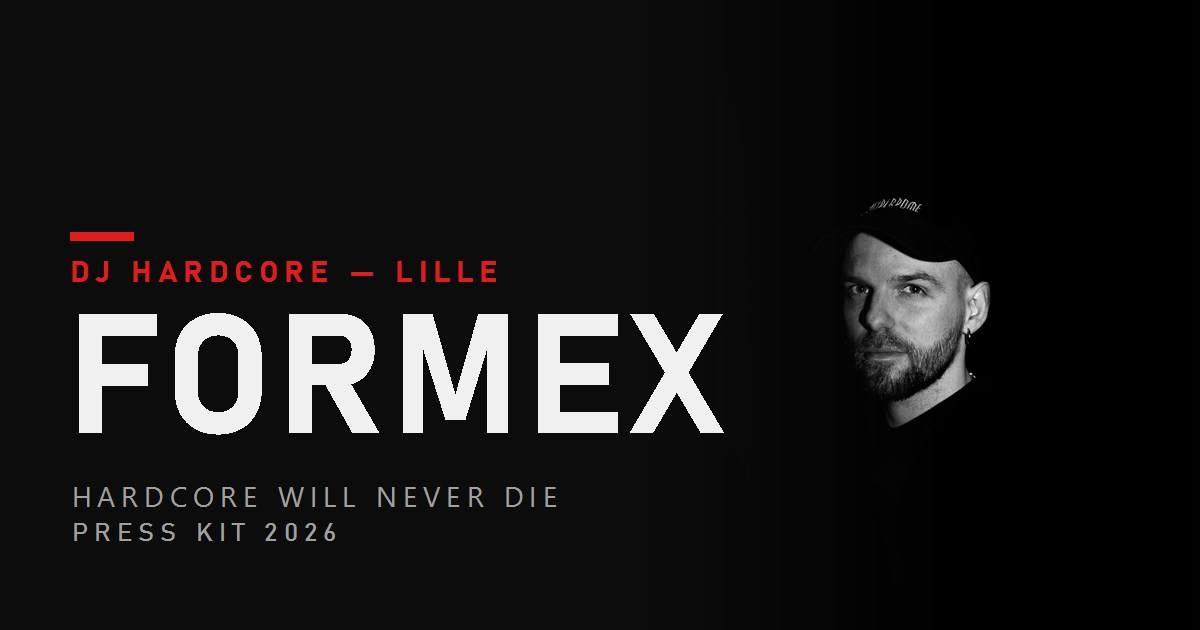
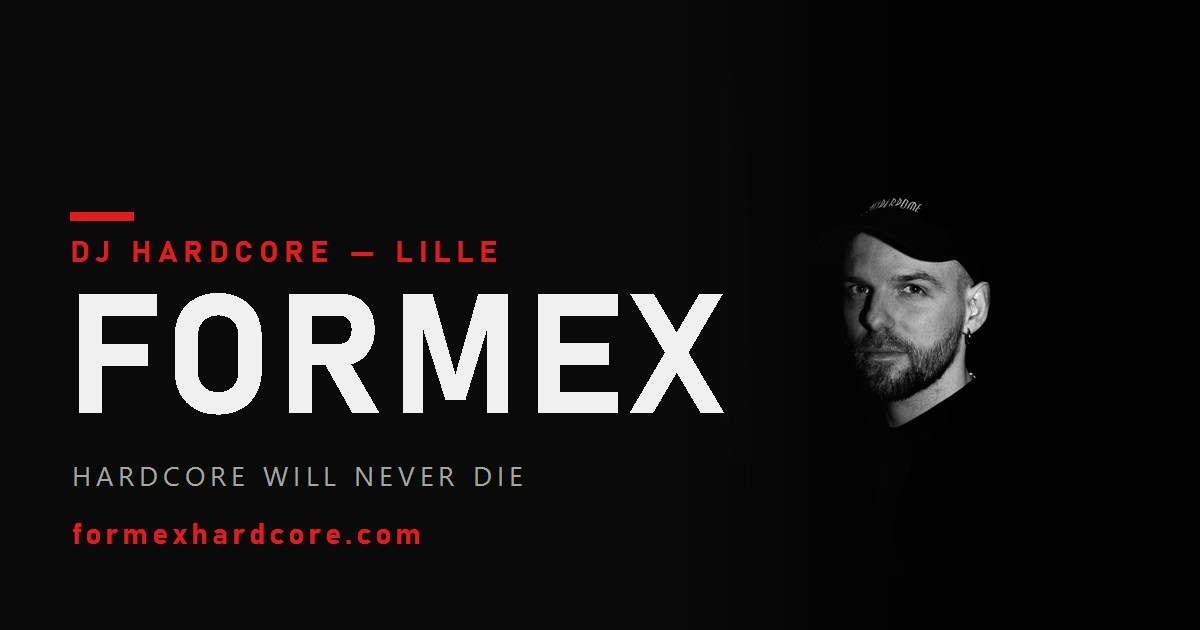
Ajoute section Videos (2 reels Insta), 2e son SoundCloud, vignette refaite
- Section Videos avec les 2 reels Instagram integres (lecture in-page)
- Ecouter: System-D #044 + Gabba Dimension cote a cote
- Onglet Videos dans le menu, cartes Medias en liens internes
- og.jpg refaite aux couleurs du site avec le domaine

Changed region(s): [[0.0617, 0.3317, 0.6167, 0.6937], [0.0617, 0.7238, 0.4625, 0.8746], [0.0617, 0.6333, 0.0925, 0.6937]]

diff --git a/index.html b/index.html
@@ -151,6 +151,16 @@
   .chip:hover{border-color:var(--red);color:#fff;transform:translateY(-2px);}
   .chip small{color:var(--muted);font-family:var(--body);font-weight:400;letter-spacing:0;text-transform:none;}
 
+  /* ===== VIDEOS ===== */
+  #videos{background:var(--bg2);}
+  .videos-grid{display:grid;grid-template-columns:repeat(2,1fr);gap:26px;justify-items:center;}
+  .vid{width:100%;max-width:380px;}
+  .vid iframe{width:100%;height:680px;border:0;border-radius:14px;background:#fff;
+    box-shadow:0 14px 40px rgba(0,0,0,.5);}
+  .sc-grid{display:grid;grid-template-columns:1fr 1fr;gap:26px;}
+  .sc-label{font-family:var(--head);font-weight:600;letter-spacing:.08em;text-transform:uppercase;
+    color:var(--fg);font-size:15px;margin:0 0 12px;}
+
   /* ===== RIDER ===== */
   #rider{background:linear-gradient(180deg,var(--bg2) 0%,var(--bg) 100%);}
   .rider-block{display:none;}
@@ -202,6 +212,8 @@
     .bio-wrap{grid-template-columns:1fr;gap:30px;}
     .bio-portrait{max-width:330px;}
     .listen-wrap{grid-template-columns:1fr;gap:30px;}
+    .videos-grid{grid-template-columns:1fr;}
+    .sc-grid{grid-template-columns:1fr;}
     .rider-grid{grid-template-columns:1fr;}
     .cards{grid-template-columns:repeat(2,1fr);}
     nav.menu{position:fixed;inset:0 0 0 auto;width:min(78vw,320px);background:#0d0d0d;
@@ -225,6 +237,7 @@
   <nav class="menu" id="menu">
     <a class="lnk" href="#bio" data-fr="Bio" data-en="Bio">Bio</a>
     <a class="lnk" href="#medias" data-fr="Médias" data-en="Media">Médias</a>
+    <a class="lnk" href="#videos" data-fr="Vidéos" data-en="Videos">Vidéos</a>
     <a class="lnk" href="#ecouter" data-fr="Écouter" data-en="Listen">Écouter</a>
     <a class="lnk" href="#rider" data-fr="Rider" data-en="Rider">Rider</a>
     <a class="lnk" href="#contact" data-fr="Booking" data-en="Booking">Booking</a>
@@ -320,11 +333,11 @@
         <p data-fr="Photos HD presse" data-en="HD press photos">Photos HD presse</p>
         <span class="go" data-fr="Ouvrir ↗" data-en="Open ↗">Ouvrir ↗</span>
       </a>
-      <a class="card reveal" href="https://drive.google.com/drive/folders/1WLvMDOOZc5NwqjD44wU5R9X8FrUB6H6z" target="_blank" rel="noopener">
+      <a class="card reveal" href="#videos">
         <span class="ic"><svg viewBox="0 0 24 24" fill="none" stroke="currentColor" stroke-width="1.8"><rect x="3" y="5" width="18" height="14" rx="2"/><path d="M10 9l5 3-5 3z" fill="currentColor" stroke="none"/></svg></span>
         <h3>Vidéos</h3>
         <p data-fr="Sets & sessions" data-en="Sets & sessions">Sets & sessions</p>
-        <span class="go" data-fr="Ouvrir ↗" data-en="Open ↗">Ouvrir ↗</span>
+        <span class="go" data-fr="Voir ↓" data-en="View ↓">Voir ↓</span>
       </a>
       <a class="card reveal" href="#rider">
         <span class="ic"><svg viewBox="0 0 24 24" fill="none" stroke="currentColor" stroke-width="1.8"><path d="M6 2h8l4 4v16H6z"/><path d="M14 2v4h4"/><line x1="9" y1="12" x2="15" y2="12"/><line x1="9" y1="16" x2="15" y2="16"/></svg></span>
@@ -349,27 +362,52 @@
   </div>
 </section>
 
+<!-- VIDEOS -->
+<section id="videos">
+  <div class="container">
+    <p class="eyebrow reveal" data-fr="Vidéos" data-en="Videos">Vidéos</p>
+    <h2 class="title reveal" data-fr="En mouvement" data-en="In motion">En mouvement</h2>
+    <div class="videos-grid">
+      <div class="vid reveal">
+        <iframe src="https://www.instagram.com/reel/DYuDZuwMge_/embed" scrolling="no" frameborder="0" allowtransparency="true" allowfullscreen></iframe>
+      </div>
+      <div class="vid reveal">
+        <iframe src="https://www.instagram.com/reel/DWv6d7XDIlP/embed" scrolling="no" frameborder="0" allowtransparency="true" allowfullscreen></iframe>
+      </div>
+    </div>
+    <div class="reveal" style="margin-top:30px;">
+      <a class="btn btn-ghost" href="https://drive.google.com/drive/folders/1WLvMDOOZc5NwqjD44wU5R9X8FrUB6H6z" target="_blank" rel="noopener" data-fr="Plus de vidéos ↗" data-en="More videos ↗">Plus de vidéos ↗</a>
+    </div>
+  </div>
+</section>
+
 <!-- ECOUTER -->
 <section id="ecouter">
   <div class="container">
     <p class="eyebrow reveal" data-fr="Écouter" data-en="Listen">Écouter</p>
-    <h2 class="title reveal" data-fr="Dernier set" data-en="Latest set">Dernier set</h2>
-    <div class="listen-wrap">
-      <div class="sc-embed reveal">
-        <iframe width="100%" height="320" scrolling="no" frameborder="no" allow="autoplay"
-          src="https://w.soundcloud.com/player/?url=https%3A//soundcloud.com/user-system-d/system-d-podcast-044-formex&color=%23e21c1c&auto_play=false&hide_related=true&show_comments=false&show_user=true&show_reposts=false&show_teaser=false&visual=true"></iframe>
-      </div>
+    <h2 class="title reveal" data-fr="Sets & sons" data-en="Sets & sounds">Sets & sons</h2>
+    <div class="sc-grid">
       <div class="reveal">
-        <h3 style="font-family:var(--head);font-weight:700;text-transform:uppercase;font-size:26px;margin:0 0 10px;">System-D Podcast #044</h3>
-        <p style="color:var(--muted);margin:0 0 22px;" data-fr="Le dernier podcast officiel — une heure de Hardcore sans concession." data-en="The latest official podcast — an hour of uncompromising Hardcore.">Le dernier podcast officiel — une heure de Hardcore sans concession.</p>
-        <div class="socials">
-          <a class="chip" href="https://soundcloud.com/formex" target="_blank" rel="noopener">SoundCloud <small>/formex</small></a>
-          <a class="chip" href="https://www.instagram.com/formex____/" target="_blank" rel="noopener">Instagram <small>@formex____</small></a>
-          <a class="chip" href="https://www.tiktok.com/@formex____" target="_blank" rel="noopener">TikTok <small>@formex____</small></a>
-          <a class="chip" href="https://www.instagram.com/circlevents_/" target="_blank" rel="noopener">Circle <small>@circlevents_</small></a>
-          <a class="chip" href="https://www.instagram.com/xem.music/" target="_blank" rel="noopener">XEM <small data-fr="techno alias" data-en="techno alias">techno alias</small></a>
+        <p class="sc-label">System-D Podcast #044</p>
+        <div class="sc-embed">
+          <iframe width="100%" height="300" scrolling="no" frameborder="no" allow="autoplay"
+            src="https://w.soundcloud.com/player/?url=https%3A//soundcloud.com/user-system-d/system-d-podcast-044-formex&color=%23e21c1c&auto_play=false&hide_related=true&show_comments=false&show_user=true&show_reposts=false&show_teaser=false&visual=true"></iframe>
         </div>
       </div>
+      <div class="reveal">
+        <p class="sc-label">Gabba Dimension</p>
+        <div class="sc-embed">
+          <iframe width="100%" height="300" scrolling="no" frameborder="no" allow="autoplay"
+            src="https://w.soundcloud.com/player/?url=https%3A//soundcloud.com/formex/gabba-dimension&color=%23e21c1c&auto_play=false&hide_related=true&show_comments=false&show_user=true&show_reposts=false&show_teaser=false&visual=true"></iframe>
+        </div>
+      </div>
+    </div>
+    <div class="socials reveal" style="margin-top:30px;">
+      <a class="chip" href="https://soundcloud.com/formex" target="_blank" rel="noopener">SoundCloud <small>/formex</small></a>
+      <a class="chip" href="https://www.instagram.com/formex____/" target="_blank" rel="noopener">Instagram <small>@formex____</small></a>
+      <a class="chip" href="https://www.tiktok.com/@formex____" target="_blank" rel="noopener">TikTok <small>@formex____</small></a>
+      <a class="chip" href="https://www.instagram.com/circlevents_/" target="_blank" rel="noopener">Circle <small>@circlevents_</small></a>
+      <a class="chip" href="https://www.instagram.com/xem.music/" target="_blank" rel="noopener">XEM <small data-fr="techno alias" data-en="techno alias">techno alias</small></a>
     </div>
   </div>
 </section>